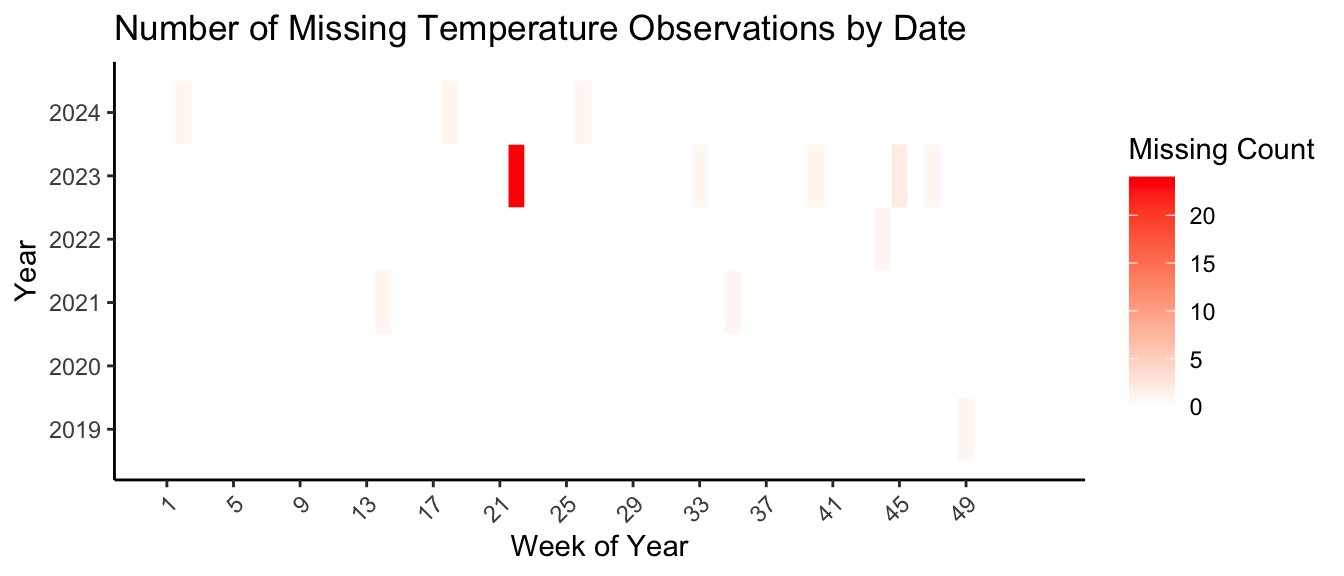
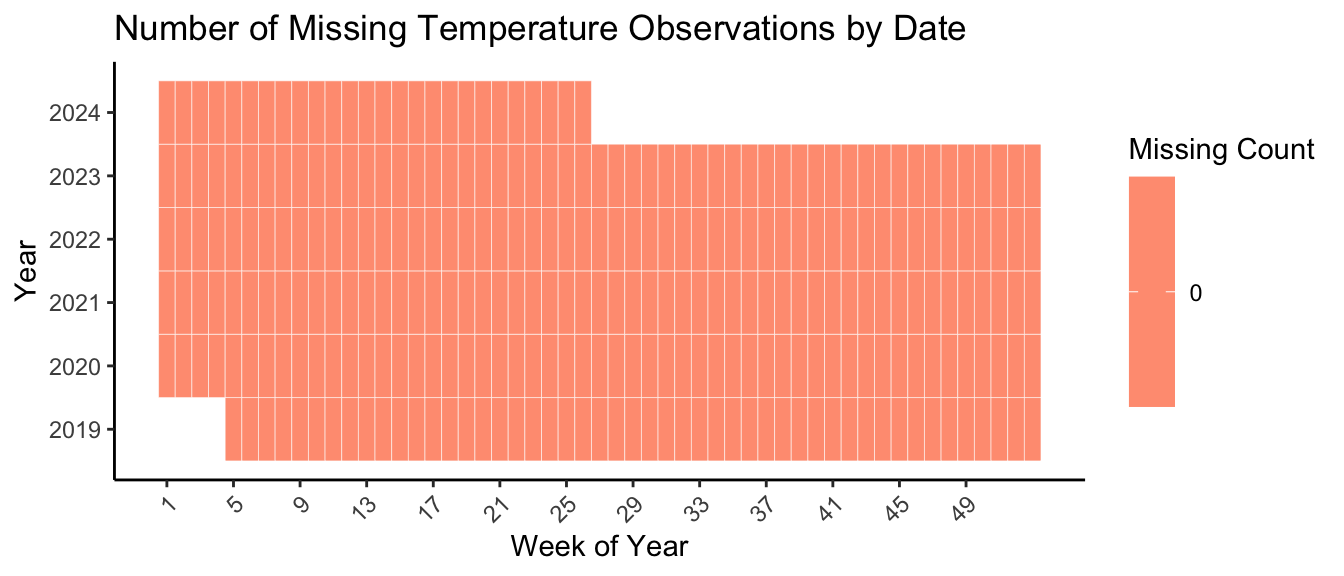
feat: Start figuring out the beginning of the post-pandemic era.

diff --git a/docs/results.html b/docs/results.html
@@ -204,6 +204,7 @@ div.csl-indent {
    
   <ul>
   <li><a href="#dealing-with-the-pandemic" id="toc-dealing-with-the-pandemic" class="nav-link active" data-scroll-target="#dealing-with-the-pandemic"><span class="header-section-number">3.1</span> Dealing with the Pandemic</a></li>
+  <li><a href="#patterns-across-hours-days-and-seasons" id="toc-patterns-across-hours-days-and-seasons" class="nav-link" data-scroll-target="#patterns-across-hours-days-and-seasons"><span class="header-section-number">3.2</span> Patterns across Hours, Days, and Seasons</a></li>
   </ul>
 <div class="toc-actions"><ul><li><a href="https://github.com/sophiewagner7/nyc-weather/edit/main/results.qmd" class="toc-action"><i class="bi bi-github"></i>Edit this page</a></li><li><a href="https://github.com/sophiewagner7/nyc-weather/issues/new" class="toc-action"><i class="bi empty"></i>Report an issue</a></li></ul></div></nav>
     </div>
@@ -235,42 +236,44 @@ div.csl-indent {
 <div class="cell">
 <details class="code-fold">
 <summary>Code</summary>
-<div class="sourceCode cell-code" id="cb1"><pre class="sourceCode r code-with-copy"><code class="sourceCode r"><span id="cb1-1"><a href="#cb1-1" aria-hidden="true" tabindex="-1"></a>df <span class="ot">&lt;-</span> <span class="fu">read_parquet</span>(<span class="st">"data/complete_weather_and_taxi_data.parquet"</span>)</span>
-<span id="cb1-2"><a href="#cb1-2" aria-hidden="true" tabindex="-1"></a></span>
-<span id="cb1-3"><a href="#cb1-3" aria-hidden="true" tabindex="-1"></a>custom_label <span class="ot">&lt;-</span> <span class="cf">function</span>(x) {</span>
-<span id="cb1-4"><a href="#cb1-4" aria-hidden="true" tabindex="-1"></a>  <span class="fu">ifelse</span>(x <span class="sc">==</span> <span class="dv">0</span>, <span class="st">"0"</span>, <span class="fu">label_comma</span>(<span class="at">scale =</span> <span class="fl">1e-6</span>, <span class="at">suffix =</span> <span class="st">"M"</span>)(x))</span>
-<span id="cb1-5"><a href="#cb1-5" aria-hidden="true" tabindex="-1"></a>}</span>
-<span id="cb1-6"><a href="#cb1-6" aria-hidden="true" tabindex="-1"></a></span>
-<span id="cb1-7"><a href="#cb1-7" aria-hidden="true" tabindex="-1"></a>df <span class="sc">|&gt;</span></span>
-<span id="cb1-8"><a href="#cb1-8" aria-hidden="true" tabindex="-1"></a>  <span class="fu">mutate</span>(<span class="at">year_month =</span> lubridate<span class="sc">::</span><span class="fu">ymd</span>(<span class="fu">paste</span>(year, month, <span class="st">"01"</span>, <span class="at">sep =</span> <span class="st">"-"</span>))) <span class="sc">|&gt;</span></span>
-<span id="cb1-9"><a href="#cb1-9" aria-hidden="true" tabindex="-1"></a>  <span class="fu">pivot_longer</span>(<span class="at">cols=</span><span class="fu">c</span>(</span>
-<span id="cb1-10"><a href="#cb1-10" aria-hidden="true" tabindex="-1"></a>    <span class="st">"juno"</span>, <span class="st">"lyft"</span>, <span class="st">"uber"</span>, <span class="st">"via"</span>, <span class="st">"yellow"</span></span>
-<span id="cb1-11"><a href="#cb1-11" aria-hidden="true" tabindex="-1"></a>    ), <span class="at">names_to=</span><span class="st">"car_company"</span>, <span class="at">values_to=</span><span class="st">"car_company_trips"</span>)  <span class="sc">|&gt;</span></span>
-<span id="cb1-12"><a href="#cb1-12" aria-hidden="true" tabindex="-1"></a>  <span class="fu">mutate</span>(<span class="at">car_company =</span> <span class="fu">factor</span>(car_company, <span class="at">levels =</span> <span class="fu">c</span>(<span class="st">"juno"</span>, <span class="st">"via"</span>, <span class="st">"lyft"</span>, <span class="st">"uber"</span>, <span class="st">"yellow"</span>))) <span class="sc">|&gt;</span></span>
-<span id="cb1-13"><a href="#cb1-13" aria-hidden="true" tabindex="-1"></a>  <span class="fu">group_by</span>(year_month, car_company) <span class="sc">|&gt;</span></span>
-<span id="cb1-14"><a href="#cb1-14" aria-hidden="true" tabindex="-1"></a>  <span class="fu">summarize</span>(<span class="at">trips_per_month =</span> <span class="fu">sum</span>(car_company_trips), <span class="at">.groups =</span> <span class="st">"drop"</span>) <span class="sc">|&gt;</span></span>
-<span id="cb1-15"><a href="#cb1-15" aria-hidden="true" tabindex="-1"></a>  <span class="fu">ggplot</span>(<span class="fu">aes</span>(<span class="at">x=</span>year_month, <span class="at">y=</span>trips_per_month, <span class="at">fill=</span>car_company)) <span class="sc">+</span></span>
-<span id="cb1-16"><a href="#cb1-16" aria-hidden="true" tabindex="-1"></a>    <span class="fu">geom_bar</span>(<span class="at">stat =</span> <span class="st">"identity"</span>, <span class="at">position =</span> <span class="st">"stack"</span>) <span class="sc">+</span></span>
-<span id="cb1-17"><a href="#cb1-17" aria-hidden="true" tabindex="-1"></a>      <span class="fu">labs</span>(</span>
-<span id="cb1-18"><a href="#cb1-18" aria-hidden="true" tabindex="-1"></a>    <span class="at">title =</span> <span class="st">"Trips per Month by Hired Car Company/Type"</span>,</span>
-<span id="cb1-19"><a href="#cb1-19" aria-hidden="true" tabindex="-1"></a>    <span class="at">x =</span> <span class="st">"Month"</span>,</span>
-<span id="cb1-20"><a href="#cb1-20" aria-hidden="true" tabindex="-1"></a>    <span class="at">y =</span> <span class="st">"Total Trips"</span>,</span>
-<span id="cb1-21"><a href="#cb1-21" aria-hidden="true" tabindex="-1"></a>    <span class="at">fill =</span> <span class="st">"Hired Car Company/Type"</span></span>
-<span id="cb1-22"><a href="#cb1-22" aria-hidden="true" tabindex="-1"></a>  ) <span class="sc">+</span></span>
-<span id="cb1-23"><a href="#cb1-23" aria-hidden="true" tabindex="-1"></a>  <span class="fu">scale_fill_brewer</span>(</span>
-<span id="cb1-24"><a href="#cb1-24" aria-hidden="true" tabindex="-1"></a>    <span class="at">palette =</span> <span class="st">"Set2"</span>,</span>
-<span id="cb1-25"><a href="#cb1-25" aria-hidden="true" tabindex="-1"></a>    <span class="at">labels =</span> <span class="fu">c</span>(</span>
-<span id="cb1-26"><a href="#cb1-26" aria-hidden="true" tabindex="-1"></a>      <span class="st">"yellow"</span> <span class="ot">=</span> <span class="st">"Yellow Cab"</span>,</span>
-<span id="cb1-27"><a href="#cb1-27" aria-hidden="true" tabindex="-1"></a>      <span class="st">"juno"</span> <span class="ot">=</span> <span class="st">"Juno"</span>,</span>
-<span id="cb1-28"><a href="#cb1-28" aria-hidden="true" tabindex="-1"></a>      <span class="st">"lyft"</span> <span class="ot">=</span> <span class="st">"Lyft"</span>,</span>
-<span id="cb1-29"><a href="#cb1-29" aria-hidden="true" tabindex="-1"></a>      <span class="st">"via"</span> <span class="ot">=</span> <span class="st">"Via"</span>,</span>
-<span id="cb1-30"><a href="#cb1-30" aria-hidden="true" tabindex="-1"></a>      <span class="st">"uber"</span> <span class="ot">=</span> <span class="st">"Uber"</span></span>
-<span id="cb1-31"><a href="#cb1-31" aria-hidden="true" tabindex="-1"></a>      )</span>
-<span id="cb1-32"><a href="#cb1-32" aria-hidden="true" tabindex="-1"></a>  ) <span class="sc">+</span></span>
-<span id="cb1-33"><a href="#cb1-33" aria-hidden="true" tabindex="-1"></a>  <span class="fu">scale_x_date</span>(<span class="at">date_labels =</span> <span class="st">"%b %Y"</span>, <span class="at">date_breaks =</span> <span class="st">"3 months"</span>) <span class="sc">+</span></span>
-<span id="cb1-34"><a href="#cb1-34" aria-hidden="true" tabindex="-1"></a>  <span class="fu">scale_y_continuous</span>(<span class="at">labels =</span> custom_label) <span class="sc">+</span> </span>
-<span id="cb1-35"><a href="#cb1-35" aria-hidden="true" tabindex="-1"></a>  <span class="fu">theme_minimal</span>() <span class="sc">+</span></span>
-<span id="cb1-36"><a href="#cb1-36" aria-hidden="true" tabindex="-1"></a>  <span class="fu">theme</span>(<span class="at">axis.text.x =</span> <span class="fu">element_text</span>(<span class="at">angle =</span> <span class="dv">45</span>, <span class="at">hjust =</span> <span class="dv">1</span>))</span></code><button title="Copy to Clipboard" class="code-copy-button"><i class="bi"></i></button></pre></div>
+<div class="sourceCode cell-code" id="cb1"><pre class="sourceCode r code-with-copy"><code class="sourceCode r"><span id="cb1-1"><a href="#cb1-1" aria-hidden="true" tabindex="-1"></a>custom_label <span class="ot">&lt;-</span> <span class="cf">function</span>(x) {</span>
+<span id="cb1-2"><a href="#cb1-2" aria-hidden="true" tabindex="-1"></a>  <span class="fu">ifelse</span>(x <span class="sc">==</span> <span class="dv">0</span>, <span class="st">"0"</span>, <span class="fu">label_comma</span>(<span class="at">scale =</span> <span class="fl">1e-6</span>, <span class="at">suffix =</span> <span class="st">"M"</span>)(x))</span>
+<span id="cb1-3"><a href="#cb1-3" aria-hidden="true" tabindex="-1"></a>}</span>
+<span id="cb1-4"><a href="#cb1-4" aria-hidden="true" tabindex="-1"></a></span>
+<span id="cb1-5"><a href="#cb1-5" aria-hidden="true" tabindex="-1"></a>df <span class="sc">|&gt;</span></span>
+<span id="cb1-6"><a href="#cb1-6" aria-hidden="true" tabindex="-1"></a>  <span class="fu">mutate</span>(<span class="at">year_month =</span> lubridate<span class="sc">::</span><span class="fu">ymd</span>(<span class="fu">paste</span>(year, month, <span class="st">"01"</span>, <span class="at">sep =</span> <span class="st">"-"</span>))) <span class="sc">|&gt;</span></span>
+<span id="cb1-7"><a href="#cb1-7" aria-hidden="true" tabindex="-1"></a>  <span class="fu">pivot_longer</span>(<span class="at">cols=</span><span class="fu">c</span>(</span>
+<span id="cb1-8"><a href="#cb1-8" aria-hidden="true" tabindex="-1"></a>    <span class="st">"juno"</span>, <span class="st">"lyft"</span>, <span class="st">"uber"</span>, <span class="st">"via"</span>, <span class="st">"yellow"</span></span>
+<span id="cb1-9"><a href="#cb1-9" aria-hidden="true" tabindex="-1"></a>    ), <span class="at">names_to=</span><span class="st">"car_company"</span>, <span class="at">values_to=</span><span class="st">"car_company_trips"</span>)  <span class="sc">|&gt;</span></span>
+<span id="cb1-10"><a href="#cb1-10" aria-hidden="true" tabindex="-1"></a>  <span class="fu">mutate</span>(<span class="at">car_company =</span> <span class="fu">factor</span>(car_company, <span class="at">levels =</span> <span class="fu">c</span>(<span class="st">"juno"</span>, <span class="st">"via"</span>, <span class="st">"lyft"</span>, <span class="st">"uber"</span>, <span class="st">"yellow"</span>))) <span class="sc">|&gt;</span></span>
+<span id="cb1-11"><a href="#cb1-11" aria-hidden="true" tabindex="-1"></a>  <span class="fu">group_by</span>(year_month, car_company) <span class="sc">|&gt;</span></span>
+<span id="cb1-12"><a href="#cb1-12" aria-hidden="true" tabindex="-1"></a>  <span class="fu">summarize</span>(<span class="at">trips_per_month =</span> <span class="fu">sum</span>(car_company_trips), <span class="at">.groups =</span> <span class="st">"drop"</span>) <span class="sc">|&gt;</span></span>
+<span id="cb1-13"><a href="#cb1-13" aria-hidden="true" tabindex="-1"></a>  <span class="fu">ggplot</span>(<span class="fu">aes</span>(</span>
+<span id="cb1-14"><a href="#cb1-14" aria-hidden="true" tabindex="-1"></a>    <span class="at">x=</span>year_month, </span>
+<span id="cb1-15"><a href="#cb1-15" aria-hidden="true" tabindex="-1"></a>    <span class="at">y=</span>trips_per_month, </span>
+<span id="cb1-16"><a href="#cb1-16" aria-hidden="true" tabindex="-1"></a>    <span class="at">fill=</span>car_company</span>
+<span id="cb1-17"><a href="#cb1-17" aria-hidden="true" tabindex="-1"></a>    )) <span class="sc">+</span></span>
+<span id="cb1-18"><a href="#cb1-18" aria-hidden="true" tabindex="-1"></a>    <span class="fu">geom_bar</span>(<span class="at">stat =</span> <span class="st">"identity"</span>, <span class="at">position =</span> <span class="st">"stack"</span>) <span class="sc">+</span></span>
+<span id="cb1-19"><a href="#cb1-19" aria-hidden="true" tabindex="-1"></a>      <span class="fu">labs</span>(</span>
+<span id="cb1-20"><a href="#cb1-20" aria-hidden="true" tabindex="-1"></a>    <span class="at">title =</span> <span class="st">"Trips per Month by Hired Car Company/Type"</span>,</span>
+<span id="cb1-21"><a href="#cb1-21" aria-hidden="true" tabindex="-1"></a>    <span class="at">x =</span> <span class="st">"Month"</span>,</span>
+<span id="cb1-22"><a href="#cb1-22" aria-hidden="true" tabindex="-1"></a>    <span class="at">y =</span> <span class="st">"Total Trips"</span>,</span>
+<span id="cb1-23"><a href="#cb1-23" aria-hidden="true" tabindex="-1"></a>    <span class="at">fill =</span> <span class="st">"Hired Car Company/Type"</span></span>
+<span id="cb1-24"><a href="#cb1-24" aria-hidden="true" tabindex="-1"></a>  ) <span class="sc">+</span></span>
+<span id="cb1-25"><a href="#cb1-25" aria-hidden="true" tabindex="-1"></a>  <span class="fu">scale_fill_brewer</span>(</span>
+<span id="cb1-26"><a href="#cb1-26" aria-hidden="true" tabindex="-1"></a>    <span class="at">palette =</span> <span class="st">"Set2"</span>,</span>
+<span id="cb1-27"><a href="#cb1-27" aria-hidden="true" tabindex="-1"></a>    <span class="at">labels =</span> <span class="fu">c</span>(</span>
+<span id="cb1-28"><a href="#cb1-28" aria-hidden="true" tabindex="-1"></a>      <span class="st">"yellow"</span> <span class="ot">=</span> <span class="st">"Yellow Cab"</span>,</span>
+<span id="cb1-29"><a href="#cb1-29" aria-hidden="true" tabindex="-1"></a>      <span class="st">"juno"</span> <span class="ot">=</span> <span class="st">"Juno"</span>,</span>
+<span id="cb1-30"><a href="#cb1-30" aria-hidden="true" tabindex="-1"></a>      <span class="st">"lyft"</span> <span class="ot">=</span> <span class="st">"Lyft"</span>,</span>
+<span id="cb1-31"><a href="#cb1-31" aria-hidden="true" tabindex="-1"></a>      <span class="st">"via"</span> <span class="ot">=</span> <span class="st">"Via"</span>,</span>
+<span id="cb1-32"><a href="#cb1-32" aria-hidden="true" tabindex="-1"></a>      <span class="st">"uber"</span> <span class="ot">=</span> <span class="st">"Uber"</span></span>
+<span id="cb1-33"><a href="#cb1-33" aria-hidden="true" tabindex="-1"></a>      )</span>
+<span id="cb1-34"><a href="#cb1-34" aria-hidden="true" tabindex="-1"></a>  ) <span class="sc">+</span></span>
+<span id="cb1-35"><a href="#cb1-35" aria-hidden="true" tabindex="-1"></a>  <span class="fu">scale_x_date</span>(<span class="at">date_labels =</span> <span class="st">"%b %Y"</span>, <span class="at">date_breaks =</span> <span class="st">"3 months"</span>) <span class="sc">+</span></span>
+<span id="cb1-36"><a href="#cb1-36" aria-hidden="true" tabindex="-1"></a>  <span class="fu">scale_y_continuous</span>(<span class="at">labels =</span> custom_label) <span class="sc">+</span> </span>
+<span id="cb1-37"><a href="#cb1-37" aria-hidden="true" tabindex="-1"></a>  <span class="fu">theme</span>(<span class="at">axis.text.x =</span> <span class="fu">element_text</span>(<span class="at">angle =</span> <span class="dv">45</span>, <span class="at">hjust =</span> <span class="dv">1</span>),</span>
+<span id="cb1-38"><a href="#cb1-38" aria-hidden="true" tabindex="-1"></a>        <span class="at">legend.position =</span> <span class="st">"bottom"</span>) </span></code><button title="Copy to Clipboard" class="code-copy-button"><i class="bi"></i></button></pre></div>
 </details>
 <div class="cell-output-display">
 <div>
@@ -280,7 +283,93 @@ div.csl-indent {
 </div>
 </div>
 </div>
-<p>Three details jump out from an initial look at managing the Pandemic. First, we can see when the Pandemic hit in March, 2020, but we can see that the ridership was already falling in February, even before large-scale shutdowns occurred. Next, we can see that two of the FHVHV companies, though only holding small portions of the market, disappeared from the picture. Juno shut down operations in November 2019, with drivers being offered to join Lyft.<span class="citation" data-cites="lunden2019"><a href="#ref-lunden2019" role="doc-biblioref">[1]</a></span> Via also stopped its ride-sharing operations in December 2021.<span class="citation" data-cites="fingas2021"><a href="#ref-fingas2021" role="doc-biblioref">[2]</a></span></p>
+<p>Three details jump out from an initial look at managing the Pandemic. First, we can see when the Pandemic hit in March, 2020, but we can see that the ridership was already falling in February, even before large-scale shutdowns occurred. Next, we can see that two of the FHVHV companies, though only holding small portions of the market, disappeared from the picture. Juno shut down operations in November 2019, with drivers being offered to join Lyft.<span class="citation" data-cites="lunden2019"><a href="#ref-lunden2019" role="doc-biblioref">[1]</a></span> Via also stopped its ride-sharing operations in December 2021.<span class="citation" data-cites="fingas2021"><a href="#ref-fingas2021" role="doc-biblioref">[2]</a></span> The cessation of rides from these two companies only lead us toward the most striking aspect of hired car and taxi usage in Manhattan. Not only did usage fall during the pandemic, but we seem to be in a new normal, averaging about 7.5 million rides a month across yellow cabs, Lyft, and Uber. These numbers have held since October 2021, suggesting it may make sense to abandon all data from before this time, to get a good rhythm of usage.</p>
+<div class="cell">
+<details class="code-fold">
+<summary>Code</summary>
+<div class="sourceCode cell-code" id="cb2"><pre class="sourceCode r code-with-copy"><code class="sourceCode r"><span id="cb2-1"><a href="#cb2-1" aria-hidden="true" tabindex="-1"></a>first_color <span class="ot">&lt;-</span> <span class="fu">brewer.pal</span>(<span class="dv">8</span>, <span class="st">"Set2"</span>)[<span class="dv">1</span>]</span>
+<span id="cb2-2"><a href="#cb2-2" aria-hidden="true" tabindex="-1"></a></span>
+<span id="cb2-3"><a href="#cb2-3" aria-hidden="true" tabindex="-1"></a>df <span class="sc">|&gt;</span></span>
+<span id="cb2-4"><a href="#cb2-4" aria-hidden="true" tabindex="-1"></a>  <span class="fu">mutate</span>(<span class="at">year_month =</span> <span class="fu">as.Date</span>(<span class="fu">format</span>(date, <span class="st">"%Y-%m-01"</span>))) <span class="sc">|&gt;</span></span>
+<span id="cb2-5"><a href="#cb2-5" aria-hidden="true" tabindex="-1"></a>  <span class="fu">group_by</span>(year_month) <span class="sc">|&gt;</span></span>
+<span id="cb2-6"><a href="#cb2-6" aria-hidden="true" tabindex="-1"></a>  <span class="fu">summarize</span>(</span>
+<span id="cb2-7"><a href="#cb2-7" aria-hidden="true" tabindex="-1"></a>    <span class="at">monthly_trips =</span> <span class="fu">sum</span>(trip_count),</span>
+<span id="cb2-8"><a href="#cb2-8" aria-hidden="true" tabindex="-1"></a>    <span class="at">monthly_half_mile =</span> <span class="fu">sum</span>(half_mile_trips),</span>
+<span id="cb2-9"><a href="#cb2-9" aria-hidden="true" tabindex="-1"></a>    <span class="at">monthly_one_mile =</span> <span class="fu">sum</span>(one_mile_trips),</span>
+<span id="cb2-10"><a href="#cb2-10" aria-hidden="true" tabindex="-1"></a>    <span class="at">monthly_two_mile =</span> <span class="fu">sum</span>(two_mile_trips),</span>
+<span id="cb2-11"><a href="#cb2-11" aria-hidden="true" tabindex="-1"></a>    <span class="at">monthly_three_mile =</span> <span class="fu">sum</span>(three_mile_trips),</span>
+<span id="cb2-12"><a href="#cb2-12" aria-hidden="true" tabindex="-1"></a>    <span class="at">monthly_five_mile =</span> <span class="fu">sum</span>(five_mile_trips),</span>
+<span id="cb2-13"><a href="#cb2-13" aria-hidden="true" tabindex="-1"></a>    <span class="at">monthly_more_than_five =</span> monthly_trips <span class="sc">-</span> monthly_half_mile <span class="sc">-</span> monthly_one_mile <span class="sc">-</span> monthly_two_mile <span class="sc">-</span> monthly_three_mile <span class="sc">-</span> monthly_five_mile,</span>
+<span id="cb2-14"><a href="#cb2-14" aria-hidden="true" tabindex="-1"></a>    <span class="at">pct_half_mile =</span> monthly_half_mile <span class="sc">/</span> monthly_trips,</span>
+<span id="cb2-15"><a href="#cb2-15" aria-hidden="true" tabindex="-1"></a>    <span class="at">pct_one_mile =</span> monthly_one_mile <span class="sc">/</span> monthly_trips,</span>
+<span id="cb2-16"><a href="#cb2-16" aria-hidden="true" tabindex="-1"></a>    <span class="at">pct_two_mile =</span> monthly_two_mile <span class="sc">/</span> monthly_trips,</span>
+<span id="cb2-17"><a href="#cb2-17" aria-hidden="true" tabindex="-1"></a>    <span class="at">pct_three_mile =</span> monthly_three_mile <span class="sc">/</span> monthly_trips,</span>
+<span id="cb2-18"><a href="#cb2-18" aria-hidden="true" tabindex="-1"></a>    <span class="at">pct_five_mile =</span> monthly_five_mile <span class="sc">/</span> monthly_trips,</span>
+<span id="cb2-19"><a href="#cb2-19" aria-hidden="true" tabindex="-1"></a>    <span class="at">pct_more_than_five =</span> monthly_more_than_five <span class="sc">/</span> monthly_trips,</span>
+<span id="cb2-20"><a href="#cb2-20" aria-hidden="true" tabindex="-1"></a>    <span class="at">.groups =</span> <span class="st">"drop"</span></span>
+<span id="cb2-21"><a href="#cb2-21" aria-hidden="true" tabindex="-1"></a>  ) <span class="sc">|&gt;</span></span>
+<span id="cb2-22"><a href="#cb2-22" aria-hidden="true" tabindex="-1"></a>  <span class="fu">pivot_longer</span>(</span>
+<span id="cb2-23"><a href="#cb2-23" aria-hidden="true" tabindex="-1"></a>    <span class="at">cols =</span> <span class="fu">c</span>(</span>
+<span id="cb2-24"><a href="#cb2-24" aria-hidden="true" tabindex="-1"></a>    <span class="st">"pct_half_mile"</span>,</span>
+<span id="cb2-25"><a href="#cb2-25" aria-hidden="true" tabindex="-1"></a>    <span class="st">"pct_one_mile"</span>,</span>
+<span id="cb2-26"><a href="#cb2-26" aria-hidden="true" tabindex="-1"></a>    <span class="st">"pct_two_mile"</span>,</span>
+<span id="cb2-27"><a href="#cb2-27" aria-hidden="true" tabindex="-1"></a>    <span class="st">"pct_three_mile"</span>,</span>
+<span id="cb2-28"><a href="#cb2-28" aria-hidden="true" tabindex="-1"></a>    <span class="st">"pct_five_mile"</span>,</span>
+<span id="cb2-29"><a href="#cb2-29" aria-hidden="true" tabindex="-1"></a>    <span class="st">"pct_more_than_five"</span>,</span>
+<span id="cb2-30"><a href="#cb2-30" aria-hidden="true" tabindex="-1"></a>    ),</span>
+<span id="cb2-31"><a href="#cb2-31" aria-hidden="true" tabindex="-1"></a>    <span class="at">names_to =</span> <span class="st">"pct_trip_distance_group"</span>,</span>
+<span id="cb2-32"><a href="#cb2-32" aria-hidden="true" tabindex="-1"></a>    <span class="at">values_to =</span> <span class="st">"pct_trip_distance_count"</span></span>
+<span id="cb2-33"><a href="#cb2-33" aria-hidden="true" tabindex="-1"></a>  ) <span class="sc">|&gt;</span></span>
+<span id="cb2-34"><a href="#cb2-34" aria-hidden="true" tabindex="-1"></a>  <span class="fu">mutate</span>(<span class="at">pct_trip_distance_group =</span> <span class="fu">factor</span>(</span>
+<span id="cb2-35"><a href="#cb2-35" aria-hidden="true" tabindex="-1"></a>    pct_trip_distance_group, <span class="at">levels =</span> <span class="fu">c</span>(</span>
+<span id="cb2-36"><a href="#cb2-36" aria-hidden="true" tabindex="-1"></a>      <span class="st">"pct_more_than_five"</span>,</span>
+<span id="cb2-37"><a href="#cb2-37" aria-hidden="true" tabindex="-1"></a>      <span class="st">"pct_five_mile"</span>,</span>
+<span id="cb2-38"><a href="#cb2-38" aria-hidden="true" tabindex="-1"></a>      <span class="st">"pct_three_mile"</span>,</span>
+<span id="cb2-39"><a href="#cb2-39" aria-hidden="true" tabindex="-1"></a>      <span class="st">"pct_two_mile"</span>,</span>
+<span id="cb2-40"><a href="#cb2-40" aria-hidden="true" tabindex="-1"></a>      <span class="st">"pct_one_mile"</span>,</span>
+<span id="cb2-41"><a href="#cb2-41" aria-hidden="true" tabindex="-1"></a>      <span class="st">"pct_half_mile"</span></span>
+<span id="cb2-42"><a href="#cb2-42" aria-hidden="true" tabindex="-1"></a>    ))) <span class="sc">|&gt;</span></span>
+<span id="cb2-43"><a href="#cb2-43" aria-hidden="true" tabindex="-1"></a>  <span class="fu">ggplot</span>(<span class="fu">aes</span>(</span>
+<span id="cb2-44"><a href="#cb2-44" aria-hidden="true" tabindex="-1"></a>    <span class="at">x=</span>year_month,</span>
+<span id="cb2-45"><a href="#cb2-45" aria-hidden="true" tabindex="-1"></a>    <span class="at">y=</span> pct_trip_distance_count,</span>
+<span id="cb2-46"><a href="#cb2-46" aria-hidden="true" tabindex="-1"></a>    <span class="at">fill =</span> pct_trip_distance_group</span>
+<span id="cb2-47"><a href="#cb2-47" aria-hidden="true" tabindex="-1"></a>    )) <span class="sc">+</span></span>
+<span id="cb2-48"><a href="#cb2-48" aria-hidden="true" tabindex="-1"></a>    <span class="fu">geom_bar</span>(<span class="at">stat=</span><span class="st">"identity"</span>, <span class="at">position=</span><span class="st">"stack"</span>) <span class="sc">+</span></span>
+<span id="cb2-49"><a href="#cb2-49" aria-hidden="true" tabindex="-1"></a>    <span class="fu">labs</span>(</span>
+<span id="cb2-50"><a href="#cb2-50" aria-hidden="true" tabindex="-1"></a>      <span class="at">title =</span> <span class="st">"Distribution of Taxi and Uber/Lyft Trip Distances under Ten Miles in Manhattan"</span>,</span>
+<span id="cb2-51"><a href="#cb2-51" aria-hidden="true" tabindex="-1"></a>      <span class="at">x =</span> <span class="st">"Month"</span>,</span>
+<span id="cb2-52"><a href="#cb2-52" aria-hidden="true" tabindex="-1"></a>      <span class="at">y =</span> <span class="st">"Percentage of Trips"</span>,</span>
+<span id="cb2-53"><a href="#cb2-53" aria-hidden="true" tabindex="-1"></a>      <span class="at">fill =</span> <span class="st">"Trip Distance"</span></span>
+<span id="cb2-54"><a href="#cb2-54" aria-hidden="true" tabindex="-1"></a>  ) <span class="sc">+</span></span>
+<span id="cb2-55"><a href="#cb2-55" aria-hidden="true" tabindex="-1"></a>  <span class="fu">scale_x_date</span>(<span class="at">date_labels =</span> <span class="st">"%b %Y"</span>, <span class="at">date_breaks =</span> <span class="st">"3 months"</span>) <span class="sc">+</span></span>
+<span id="cb2-56"><a href="#cb2-56" aria-hidden="true" tabindex="-1"></a>  <span class="fu">scale_fill_brewer</span>(</span>
+<span id="cb2-57"><a href="#cb2-57" aria-hidden="true" tabindex="-1"></a>    <span class="at">palette =</span> <span class="st">"Set2"</span>,</span>
+<span id="cb2-58"><a href="#cb2-58" aria-hidden="true" tabindex="-1"></a>    <span class="at">labels =</span> <span class="fu">c</span>(</span>
+<span id="cb2-59"><a href="#cb2-59" aria-hidden="true" tabindex="-1"></a>      <span class="st">"pct_more_than_five"</span> <span class="ot">=</span> <span class="st">"Five to Ten Miles"</span>,</span>
+<span id="cb2-60"><a href="#cb2-60" aria-hidden="true" tabindex="-1"></a>      <span class="st">"pct_five_mile"</span> <span class="ot">=</span> <span class="st">"Three to Five Miles"</span>,</span>
+<span id="cb2-61"><a href="#cb2-61" aria-hidden="true" tabindex="-1"></a>      <span class="st">"pct_three_mile"</span> <span class="ot">=</span> <span class="st">"Two to Three Miles"</span>,</span>
+<span id="cb2-62"><a href="#cb2-62" aria-hidden="true" tabindex="-1"></a>      <span class="st">"pct_two_mile"</span> <span class="ot">=</span> <span class="st">"One to Two Miles"</span>,</span>
+<span id="cb2-63"><a href="#cb2-63" aria-hidden="true" tabindex="-1"></a>      <span class="st">"pct_one_mile"</span> <span class="ot">=</span> <span class="st">"Half Mile to One Miles"</span>,</span>
+<span id="cb2-64"><a href="#cb2-64" aria-hidden="true" tabindex="-1"></a>      <span class="st">"pct_half_mile"</span> <span class="ot">=</span> <span class="st">"Under Half a Mile"</span></span>
+<span id="cb2-65"><a href="#cb2-65" aria-hidden="true" tabindex="-1"></a>    )</span>
+<span id="cb2-66"><a href="#cb2-66" aria-hidden="true" tabindex="-1"></a>  ) <span class="sc">+</span></span>
+<span id="cb2-67"><a href="#cb2-67" aria-hidden="true" tabindex="-1"></a>  <span class="fu">scale_y_continuous</span>(<span class="at">labels =</span> <span class="fu">label_percent</span>()) <span class="sc">+</span></span>
+<span id="cb2-68"><a href="#cb2-68" aria-hidden="true" tabindex="-1"></a>  <span class="fu">theme</span>(<span class="at">axis.text.x =</span> <span class="fu">element_text</span>(<span class="at">angle =</span> <span class="dv">45</span>, <span class="at">hjust =</span> <span class="dv">1</span>),</span>
+<span id="cb2-69"><a href="#cb2-69" aria-hidden="true" tabindex="-1"></a>        <span class="at">legend.position =</span> <span class="st">"bottom"</span>)</span></code><button title="Copy to Clipboard" class="code-copy-button"><i class="bi"></i></button></pre></div>
+</details>
+<div class="cell-output-display">
+<div>
+<figure class="figure">
+<p><img src="results_files/figure-html/unnamed-chunk-3-1.png" class="img-fluid figure-img" width="672"></p>
+</figure>
+</div>
+</div>
+</div>
+<p>In addition to using hired cars less often after the Pandemic, perhaps as a consequence of less business-related travel because of flexible work schedules, we see a second behavioral change in the post-Pandemic era, even if it is slight: for the class of trips we are observing, they run longer. Trips of one mile make up a smaller percentage of the total, while trips of more than three miles make up a larger percentage of the total since the onset of the Pandemic.</p>
+<p>Both analyses suggest certainly abandoning pre-Pandemic data as well as all of the 2020 data. While the shift in typical distances smooths out already at the beginning of 2021, the number of trips does not reach its new normal until around October 2021, suggesting that is the true step into the post-Pandemic order.</p>
+</section>
+<section id="patterns-across-hours-days-and-seasons" class="level2" data-number="3.2">
+<h2 data-number="3.2" class="anchored" data-anchor-id="patterns-across-hours-days-and-seasons"><span class="header-section-number">3.2</span> Patterns across Hours, Days, and Seasons</h2>
 
 
 <div id="refs" class="references csl-bib-body" data-entry-spacing="0" role="list">

diff --git a/docs/data.html b/docs/data.html
@@ -212,16 +212,16 @@ pre > code.sourceCode > span > a:first-child::before { text-decoration: underlin
 
 <section id="description" class="level2" data-number="2.1">
 <h2 data-number="2.1" class="anchored" data-anchor-id="description"><span class="header-section-number">2.1</span> Description</h2>
-<p>We are basing our analysis on two datasets, a dataset of taxi use in New York and historical weather data. For both datasets, we will limit our analysis to 2019-01-01 00:00:00 – 2024-06-25 23:00:00, in the interest of trying to catch about a year of pre-pandemic norms to help interpret pandemic and post-pandemic use of taxis. The taxi data only go to August, but the weather data only go through most of June this year.</p>
-<p>The taxi data are provided by New York’s <a href="https://www.nyc.gov/site/tlc/index.page">Taxi and Limousine Commission</a>. They <a href="https://www.nyc.gov/site/tlc/about/tlc-trip-record-data.page">provide taxi data</a>, in <a href="https://parquet.apache.org/">parquet</a> format, going back to 2009. Since February of 2019, they have also included data on trips serviced by companies like Lyft and Uber, which are classified as “high-volume for-hire vehicle” (HVFHV) trips. The data are updated monthly, with a two-month lag. Our focus is on yellow taxi and HVFHV trips, because our focus is on intra-Manhattan trips. Only yellow cabs can pick up passengers in most of Manhattan, so we are ignoring green cabs and regular for-hire vehicles (town cars and limousines). Yellow cab data have <a href="https://www.nyc.gov/assets/tlc/downloads/pdf/data_dictionary_trip_records_yellow.pdf">19 columns</a>, and FHVHV data have <a href="https://www.nyc.gov/assets/tlc/downloads/pdf/data_dictionary_trip_records_hvfhs.pdf">24 columns</a>. With our Python scripts, we consolidate the data to create aggregated hourly statistics on trip duration, trip distance, fare amount, and tip amount.</p>
-<p>The historical weather data are provided by the <a href="https://www.ncei.noaa.gov/products/global-historical-climatology-network-hourly">Global Historical Climate Network hourly (GHCNh)</a>, which provides hourly weather data going back over two centuries for New York City. The data come in <a href="https://www.ncei.noaa.gov/oa/global-historical-climatology-network/index.html#hourly/access/by-year/">annual parquet files for download by station</a>. Our station, <code>KNYC0</code>, is listed in the GHCNh as <code>USW00094728</code>, and it is the weather station in Central Park. The data come in over 200 columns to account for the variability that can occur in the terse <a href="https://en.wikipedia.org/wiki/METAR">METAR</a> report for airplanes, which is also included under <code>remarks</code>. The government provides a <a href="https://www.ncei.noaa.gov/oa/global-historical-climatology-network/hourly/doc/ghcnh_DOCUMENTATION.pdf">codebook</a> to describe the remaining data. As we are interested in what conditions determine a “nice” day for not using a taxi, we want to keep as much data from the weather report as possible, including temperature, precipitation, sky cover, snow, humidity, and so on.</p>
+<p>We are basing our analysis on two datasets, a dataset of taxi use in New York and historical weather data. For both datasets, we initally planned to limit our analysis to 2019-02-01 00:00:00 – 2024-06-25 23:00:00, in the interest of trying to catch about a year of pre-pandemic norms to help interpret pandemic and post-pandemic use of taxis. As noted in <a href="./results">the next chapter</a>, we had to abandon this scope. The inital upper bound reflects the extent of the weather data, and we initially planned on going back to January of 2019. However, no high-volume for-hire vehicle (FHVHV) data are available for January, so we bumped our limit to February, 2019.</p>
+<p>The taxi data are provided by New York’s <a href="https://www.nyc.gov/site/tlc/index.page">Taxi and Limousine Commission</a>. They <a href="https://www.nyc.gov/site/tlc/about/tlc-trip-record-data.page">provide taxi data</a>, in <a href="https://parquet.apache.org/">parquet</a> format, going back to 2009. Since February of 2019, they have also included data on trips serviced by companies like Lyft and Uber, which are classified as “high-volume for-hire vehicle” trips. The data are updated monthly, with a two-month lag. Our focus is on yellow taxi and FHVHV trips, because our focus is on intra-Manhattan trips. Only yellow cabs can pick up passengers in most of Manhattan, so we are ignoring green cabs and regular for-hire vehicles (town cars and limousines). Yellow cab data have <a href="https://www.nyc.gov/assets/tlc/downloads/pdf/data_dictionary_trip_records_yellow.pdf">19 columns</a>, and FHVHV data have <a href="https://www.nyc.gov/assets/tlc/downloads/pdf/data_dictionary_trip_records_hvfhs.pdf">24 columns</a>. With our Python scripts, we consolidate the data to create aggregated hourly statistics on trip duration and trip distance. We found the transaction data (fare amount and tip amount) noisy with unreliable outliers. It also fell outside of our scope of analysis. We also included time-delta statistics comparing a point in time with the same point in time a week earlier. We did this because taxi data follow weekly patterns.</p>
+<p>The historical weather data are provided by the <a href="https://www.ncei.noaa.gov/products/global-historical-climatology-network-hourly">Global Historical Climate Network hourly (GHCNh)</a>, which provides hourly weather data going back over two centuries for New York City. The data come in <a href="https://www.ncei.noaa.gov/oa/global-historical-climatology-network/index.html#hourly/access/by-year/">annual parquet files for download by station</a>. Our station, <code>KNYC0</code>, is listed in the GHCNh as <code>USW00094728</code>, and it is the weather station in Central Park. The data come in over 200 columns to account for the variability that can occur in the terse <a href="https://en.wikipedia.org/wiki/METAR">METAR</a> report for airplanes, which is also included under <code>remarks</code>. The government provides a <a href="https://www.ncei.noaa.gov/oa/global-historical-climatology-network/hourly/doc/ghcnh_DOCUMENTATION.pdf">codebook</a> to describe the remaining data. As we are interested in what conditions determine a “nice” day for not using a taxi, we aimed to keep a wide array of data, including temperature, precipitation, wind, sky cover, humidity, and so on. We badly wanted to include snow data, but snow has been so infrequent during this window that we folded the snow numbers into the general precipitation numbers.</p>
 </section>
 <section id="missing-value-analysis" class="level2" data-number="2.2">
 <h2 data-number="2.2" class="anchored" data-anchor-id="missing-value-analysis"><span class="header-section-number">2.2</span> Missing value analysis</h2>
-<p>The taxi data are notoriously (as in, persistently) messy, registering trips outside the bounds of the time window and giving results that seem extremely unlikely, like large negative tips or negative trip durations. To counter these anomalies, we are limiting ourselves to trips between one minute and two hours long, and, when consolidating monthly data to yearly data, we filter out all results from other years. In the aggregate, however, the outliers generally wash out, as we have a record of over 500 million yellow cab and Uber/Lyft rides. Nevertheless, there is one data point where no trips are recorded: 2:00am on March 10, 2019. However, there are data on both sides, so we will interpolate results for this time. Who knows what happened to the taxi system that affected both Uber and yellow taxis. Additionally, the tip amounts for Uber/Lyft are almost certainly incorrect, as over 75% of rides report no tip at all. As such, we will drop the tip and fare amounts from our data to account for this. We had suspected that a higher tip percentage might be related to a nice day, even though we assume taxi usage is lower, but the data are simply unreliable.</p>
-<p>For weather, we have a large array of missing values, but the <code>remarks</code> column is missing only 36 entries, for a general station uptime of 99.93%. Many of the columns have many more missing values, but that is because the way the weather data work is by reporting a <code>NaN</code> for the absence of data. For example, if there are no clouds in the sky, the sky cover values will be <code>NaN</code>, not something like “Clear.” That said, we have a consecutive period of 24 hours’ worth of missing data across May 31, 2023 to June 1, 2023. This includes missing remarks, suggesting the station was down. In our imagination, a peregrine falcon ate the station.</p>
+<p>The taxi data are notoriously (as in, persistently) messy, registering trips outside the bounds of the time window and giving results that seem extremely unlikely, like large negative tips or negative trip durations. To counter these anomalies, we are limiting ourselves to trips between one minute and two hours long as well as trips of ten or fewer miles. Similarly, and, when consolidating monthly data to yearly data, we filter out all results from other years. In the aggregate, however, the outliers generally wash out, as we have a record of over 500 million yellow cab and Uber/Lyft rides. Nevertheless, there is one data point where no trips are recorded: 2:00am on March 10, 2019. However, there are data on both sides, so we will interpolate results for this time. Who knows what happened to the taxi system that affected both Uber and yellow taxis. Additionally, the tip amounts for Uber/Lyft are almost certainly incorrect, as over 75% of rides report no tip at all. As such, we will drop the tip and fare amounts from our data to account for this. We had suspected that a higher tip percentage might be related to a nice day, even though we assume taxi usage is lower, but the data are simply unreliable.</p>
+<p>For weather, we have a large array of missing values, but the <code>remarks</code> column is missing only 36 entries, for a general station uptime of 99.93%. Many of the columns have many more missing values, but that is because the way the weather data work is by reporting a <code>NaN</code> for the absence of data. That said, we have a consecutive period of 24 hours’ worth of missing data across May 31, 2023 to June 1, 2023. This includes missing remarks, suggesting the station was down. In our imagination, a peregrine falcon ate the station.</p>
 <p>The other 12 missing remarks are scattered across the dataset.</p>
-<p>Because we have a total of 48,072 points in time in our dataset, it is hard to see any of the missing data in any plot that includes the entire stretch.</p>
+<p>Because we have a total of 47,328 points in time in our dataset, it is hard to see any of the missing data in any plot that includes the entire stretch.</p>
 <div class="cell">
 <details class="code-fold">
 <summary>Code</summary>
@@ -278,62 +278,7 @@ pre > code.sourceCode > span > a:first-child::before { text-decoration: underlin
 </div>
 </div>
 </div>
-<p>Our second chart shows the distribution of missing data, but only after we have selected out the following columns:</p>
-<table class="caption-top table">
-<colgroup>
-<col style="width: 50%">
-<col style="width: 50%">
-</colgroup>
-<thead>
-<tr class="header">
-<th>Column</th>
-<th>Explanation</th>
-</tr>
-</thead>
-<tbody>
-<tr class="odd">
-<td><code>snow_depth</code></td>
-<td>Almost always <code>NaN</code>, as it does not report 0 for no snow.</td>
-</tr>
-<tr class="even">
-<td><code>pres_wx_AU1</code></td>
-<td>Automated present weather observation. Sometimes it gives none.</td>
-</tr>
-<tr class="odd">
-<td><code>pres_wx_AU2</code></td>
-<td>This is only filled if there is supplemental information for <code>pres_wx_AU1</code>.</td>
-</tr>
-<tr class="even">
-<td><code>pres_wx_AU3</code></td>
-<td>This is only filled if there is supplemental information for <code>pres_wx_AU2</code>.</td>
-</tr>
-<tr class="odd">
-<td><code>sky_cover_2</code></td>
-<td>Only records a second layer of clouds in the sky.</td>
-</tr>
-<tr class="even">
-<td><code>sky_cover_3</code></td>
-<td>Only records a third layer of clouds in the sky.</td>
-</tr>
-<tr class="odd">
-<td><code>wind_direction</code></td>
-<td>Only records a direction if there is any wind.</td>
-</tr>
-<tr class="even">
-<td><code>wind_gust</code></td>
-<td>Only records gusts if there is any wind.</td>
-</tr>
-<tr class="odd">
-<td><code>juno</code></td>
-<td>Juno seems to have only operated for part of 2019.</td>
-</tr>
-<tr class="even">
-<td><code>via</code></td>
-<td>Use of Via completely cratered after early 2020.</td>
-</tr>
-</tbody>
-</table>
-<p>From the remaining data, we can see how infrequently a wind speed is registered and that the rest of the missing data are scattered in small numbers around the dataset, with almost all of the data making up complete cases (minus the above extracted columns).</p>
+<p>Our second chart shows the distribution of missing data, from which we can see how infrequently a wind speed is registered and that the rest of the missing data are scattered in small numbers around the dataset, with almost all of the data making up complete cases (minus the above extracted columns).</p>
 
 
 </section>
